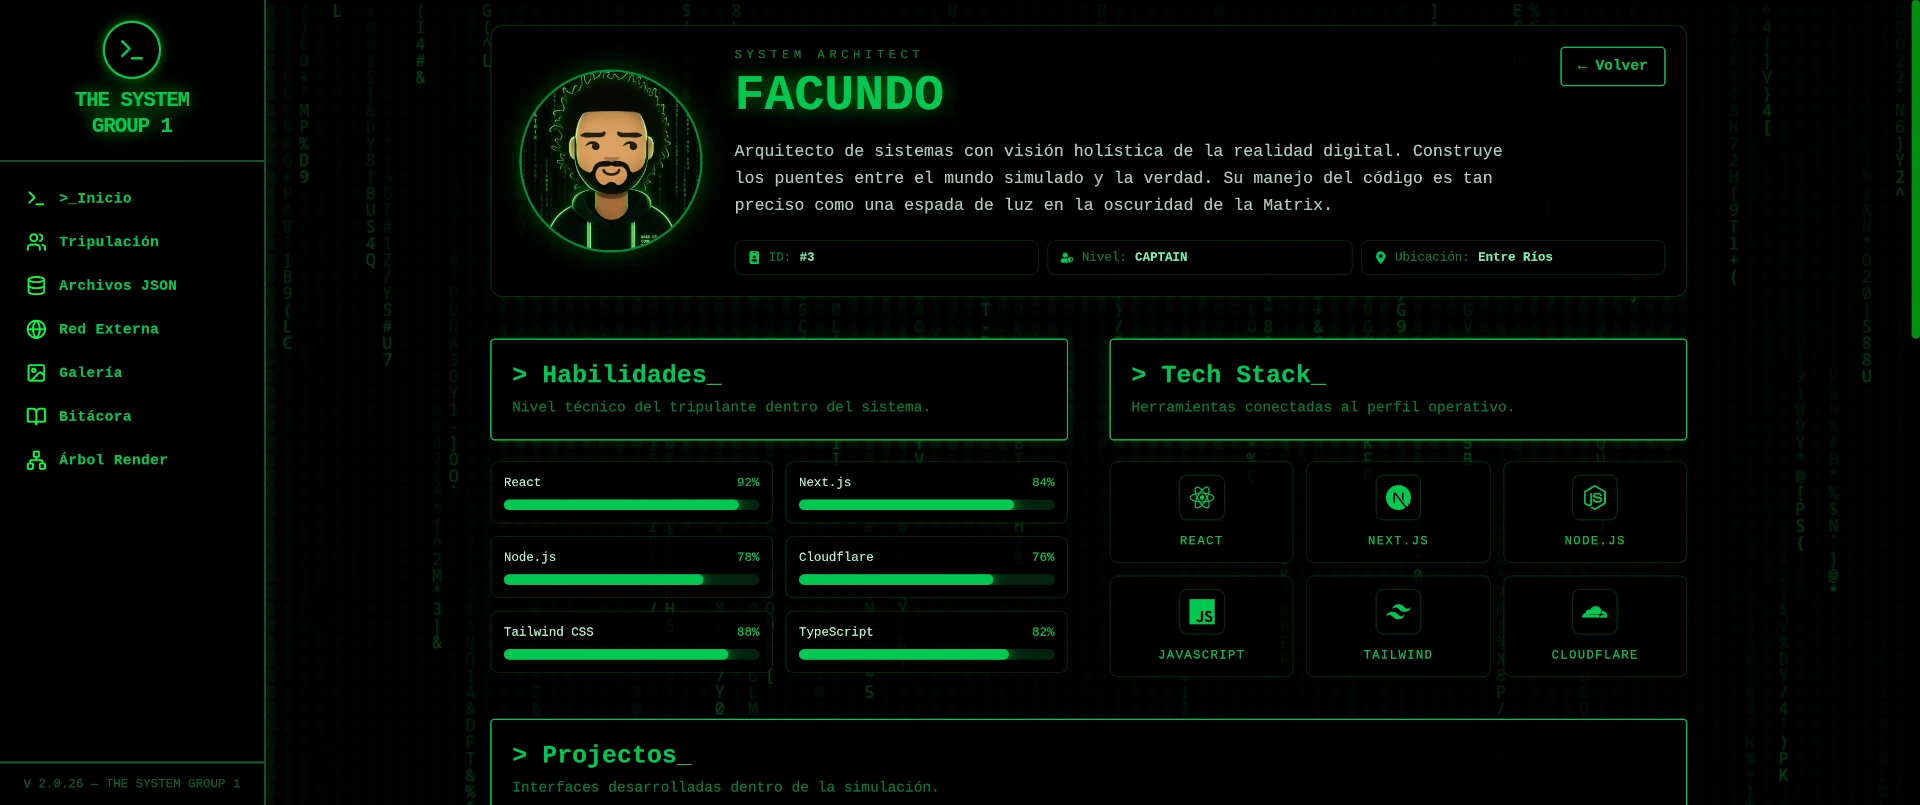
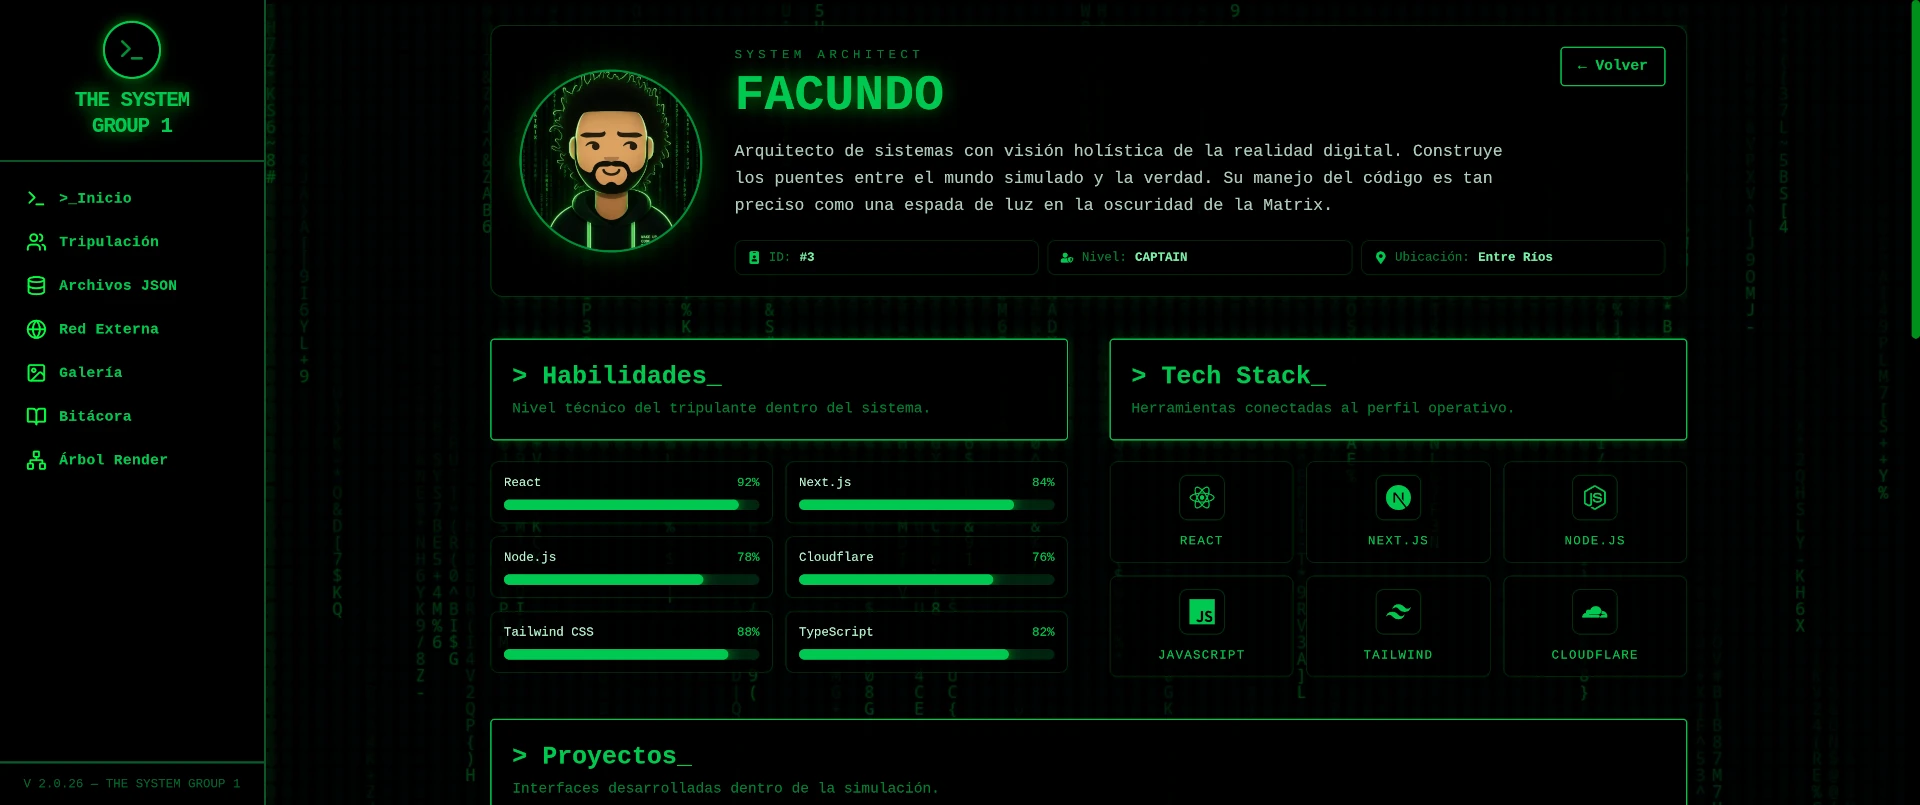
Añadido break-all para evitar desborde de texto + actualizado imagenes

diff --git a/src/pages/PortadaHome.jsx b/src/pages/PortadaHome.jsx
@@ -69,25 +69,16 @@ const PortadaHome = ({ tripulantes }) => {
 							</button>
 						</div>
 					) : (
-						<div className="space-y-6 flex flex-col h-full w-full">
+						<div className="space-y-6 flex flex-col h-full w-full break-all">
 							<h2 className="text-2xl lg:text-3xl font-bold mb-2 flex items-center gap-2 text-green-500">
 								&gt; INICIALIZANDO SISTEMA
-								<span className="animate-pulse font-black text-white">
-									...
-								</span>
 							</h2>
 							<div className="space-y-2 font-mono text-sm text-green-600">
 								<p>
 									CARGANDO INTERFAZ
-									<span className="animate-pulse text-white">
-										...
-									</span>
 								</p>
 								<p>
 									ENLAZANDO MATRIX FRONTEND
-									<span className="animate-pulse text-white">
-										...
-									</span>
 								</p>
 							</div>
 							<div className="space-y-2 mt-8">
@@ -114,9 +105,6 @@ const PortadaHome = ({ tripulantes }) => {
 								) : (
 									<p className="text-green-600 animate-pulse mt-12 text-lg">
 										&gt; DESENCRIPTANDO CÓDIGO FUENTE
-										<span className="animate-pulse text-white">
-											...
-										</span>
 									</p>
 								)}
 							</div>
@@ -127,9 +115,6 @@ const PortadaHome = ({ tripulantes }) => {
 					<div className="w-full xl:w-1/2 border border-green-500 p-6 rounded bg-black/80 shadow-[0_0_15px_rgba(0,255,65,0.2)] flex flex-col animate-[fadeIn_1s_ease-out]">
 						<h2 className="text-2xl font-bold mb-4 text-green-500">
 							&gt; FICHEROS DE LA TRIPULACIÓN
-							<span className="animate-pulse text-white">
-								...
-							</span>
 						</h2>
 						<div className="space-y-1 mb-6 text-xs text-green-600 font-mono border-b border-green-900 pb-4">
 							<p>
